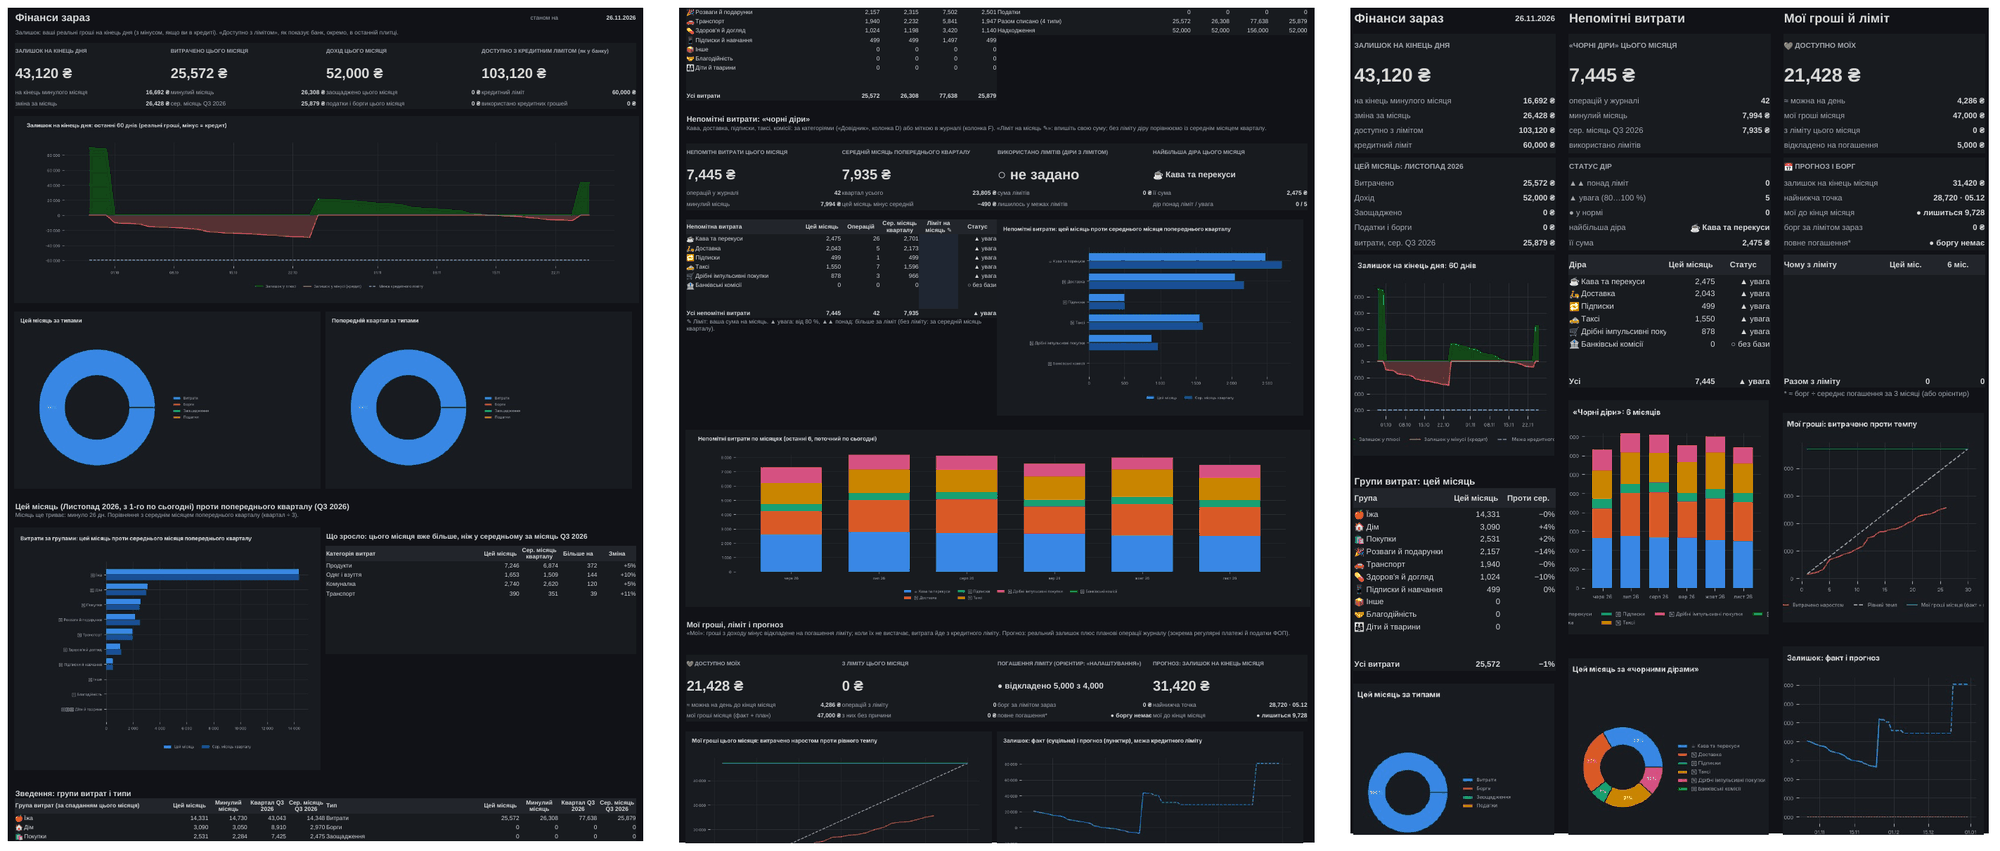
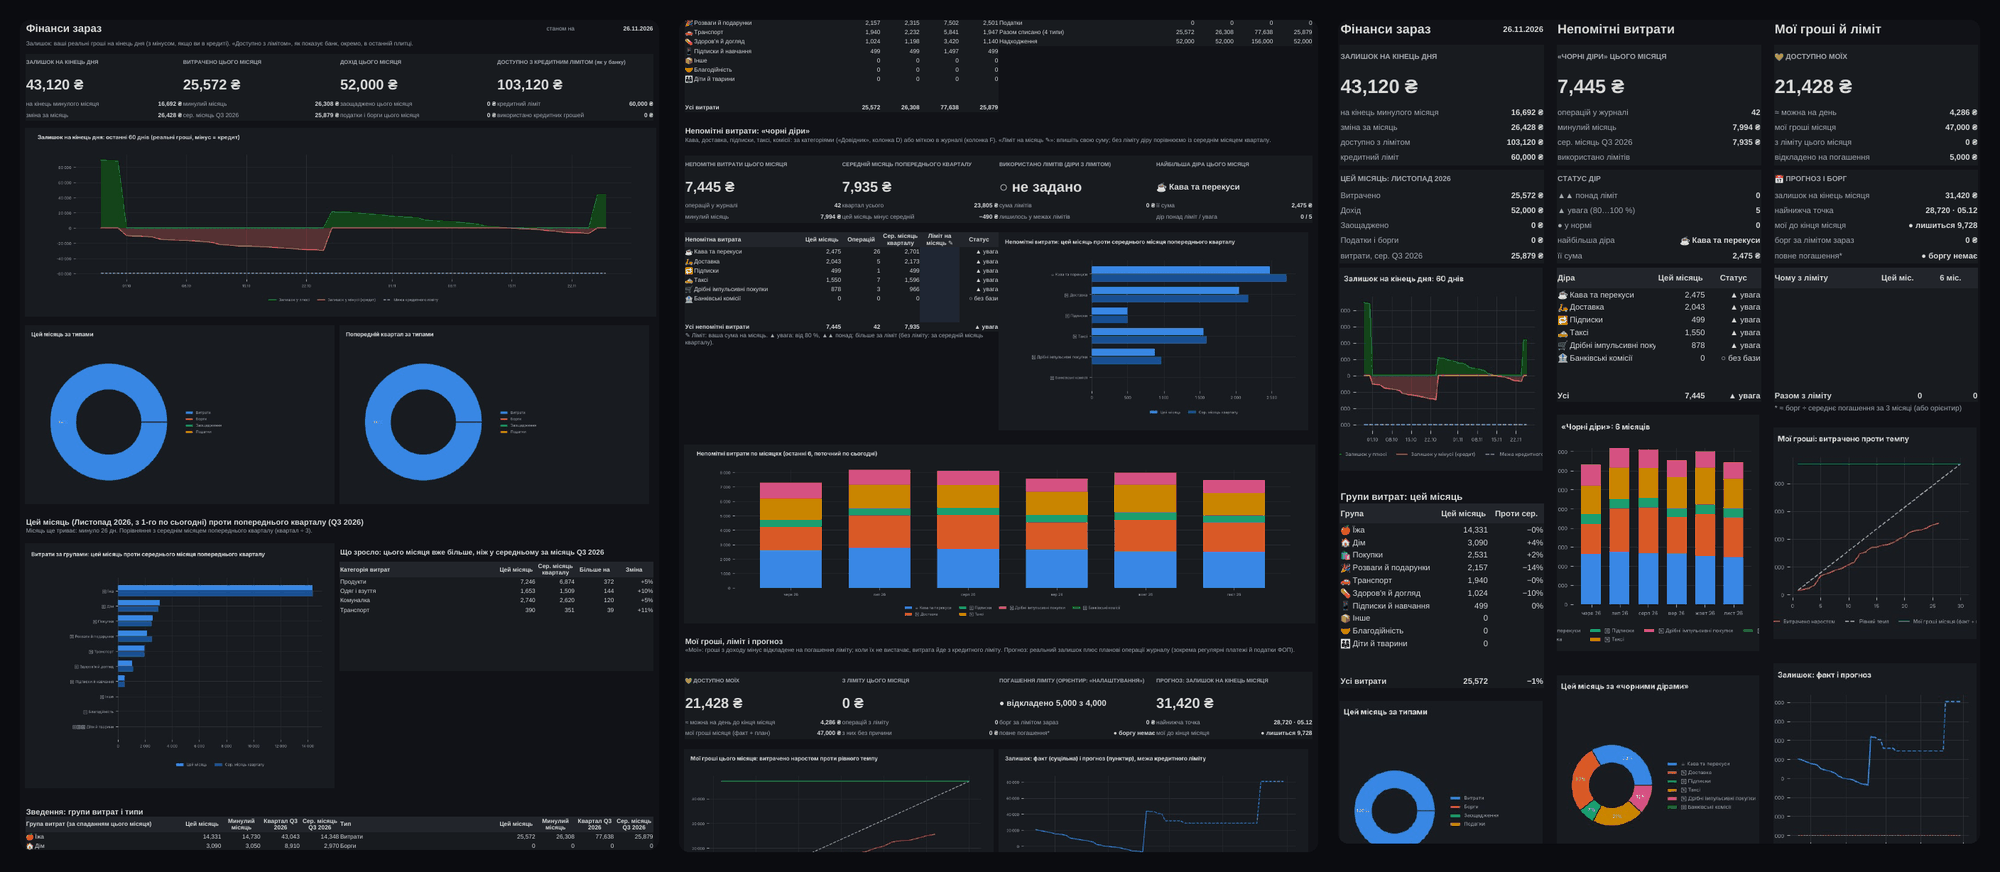
v0.4.4

diff --git a/README.md b/README.md
@@ -2,11 +2,15 @@
 
 Шаблон Google Таблиць для обліку сімейного бюджету і ФОП: журнал операцій, план і факт по місяцях, баланс по днях, «мої гроші» окремо від кредитного ліміту, «чорні діри» (непомітні витрати) і причини, чому взято з ліміту. Сім'я до 5 учасників, ФОП 1, 2 і 3 групи, борги й розстрочки, грейс Mono. Імпорт з Mono, ПриватБанку («Автоклієнт» для ФОП) і виписок CSV, Telegram-бот, нічні копії, календар платежів, радник на Gemini. Кожен модуль вмикається окремо. Код відкритий (ліцензія MIT), українською.
 
-> Статус: версія 0.4.5, бета-тест. **Зробити копію**: посилання з'явиться тут після бета-тесту · [Як користуватися](docs/HOWTO.md) · [Що нового](CHANGELOG.md) · [Приватність](PRIVACY.md) · [❤ Підтримати](https://send.monobank.ua/jar/6ChdYHjkd9)
+> Статус: версія 0.4.6, бета-тест. **Зробити копію**: посилання з'явиться тут після бета-тесту · [Як користуватися](docs/HOWTO.md) · [Що нового](CHANGELOG.md) · [Приватність](PRIVACY.md) · [❤ Підтримати](https://send.monobank.ua/jar/6ChdYHjkd9)
 
-![Дашборди «Charts» і «charts_mob» на вигаданих даних](docs/img/dashboard.png)
+![Як рухаються дані: Mono, ПриватБанк і виписки → ваша Google Таблиця → Telegram, календар платежів і радник Gemini](docs/img/flow.png)
 
-*«Charts» (дві частини, для комп'ютера) і «charts_mob» (для телефона) на вигаданих даних. Знімок зроблено поза Google Таблицями, тож там графіки виглядають трохи інакше.*
+![Від покупки до Telegram: покупка → чернетка в журналі → Charts → ранковий підсумок → календар і Gemini](docs/img/flow.gif)
+
+![Дашборди «Charts» і «charts_mob»](docs/img/dashboard.png)
+
+*Усі цифри вигадані. «Charts» (дві частини, для комп'ютера) і «charts_mob» (для телефона) тут відмальовано поза Google Таблицями, тож там графіки виглядають трохи інакше.*
 
 ## Що всередині
 

diff --git a/CHANGELOG.md b/CHANGELOG.md
@@ -2,6 +2,11 @@
 
 Нова версія з'являється в «🩺 Стан таблиці» сама (раз на день таблиця читає публічний `version.json`). Як оновитись: README, розділ «Як оновитись».
 
+## 0.4.6 (версія таблиці 10)
+
+- **README**: картинка «Як рухаються дані» (банк → ваша таблиця → Telegram, календар, Gemini, і що токени лишаються у вас) та анімація на 15 секунд від покупки до ранкового підсумку; знімок дашбордів без білої рамки. Усі цифри вигадані, логотипів сервісів немає.
+- **Mono «З'єднання заблоковано» (VPN_BLOCKED)**: Mono іноді приймає сервери Google, з яких працює скрипт, за VPN. Тепер скрипт сам повторює запит ще двічі (за 5 і 20 с), а якщо не вийшло, замість «код 400» і сирого JSON пише: зачекайте 5 хвилин, оновіть сторінку таблиці й запустіть імпорт ще раз (за розкладом повтор сам за 10 і 30 хв). Інші помилки Mono показують текст самого Mono.
+
 ## 0.4.5 (версія таблиці 10)
 
 - **На виду лише п'ять вкладок**, як в особистій таблиці автора: «Старт», «Журнал», «Регулярні», «Charts», «charts_mob» (у такому порядку).
